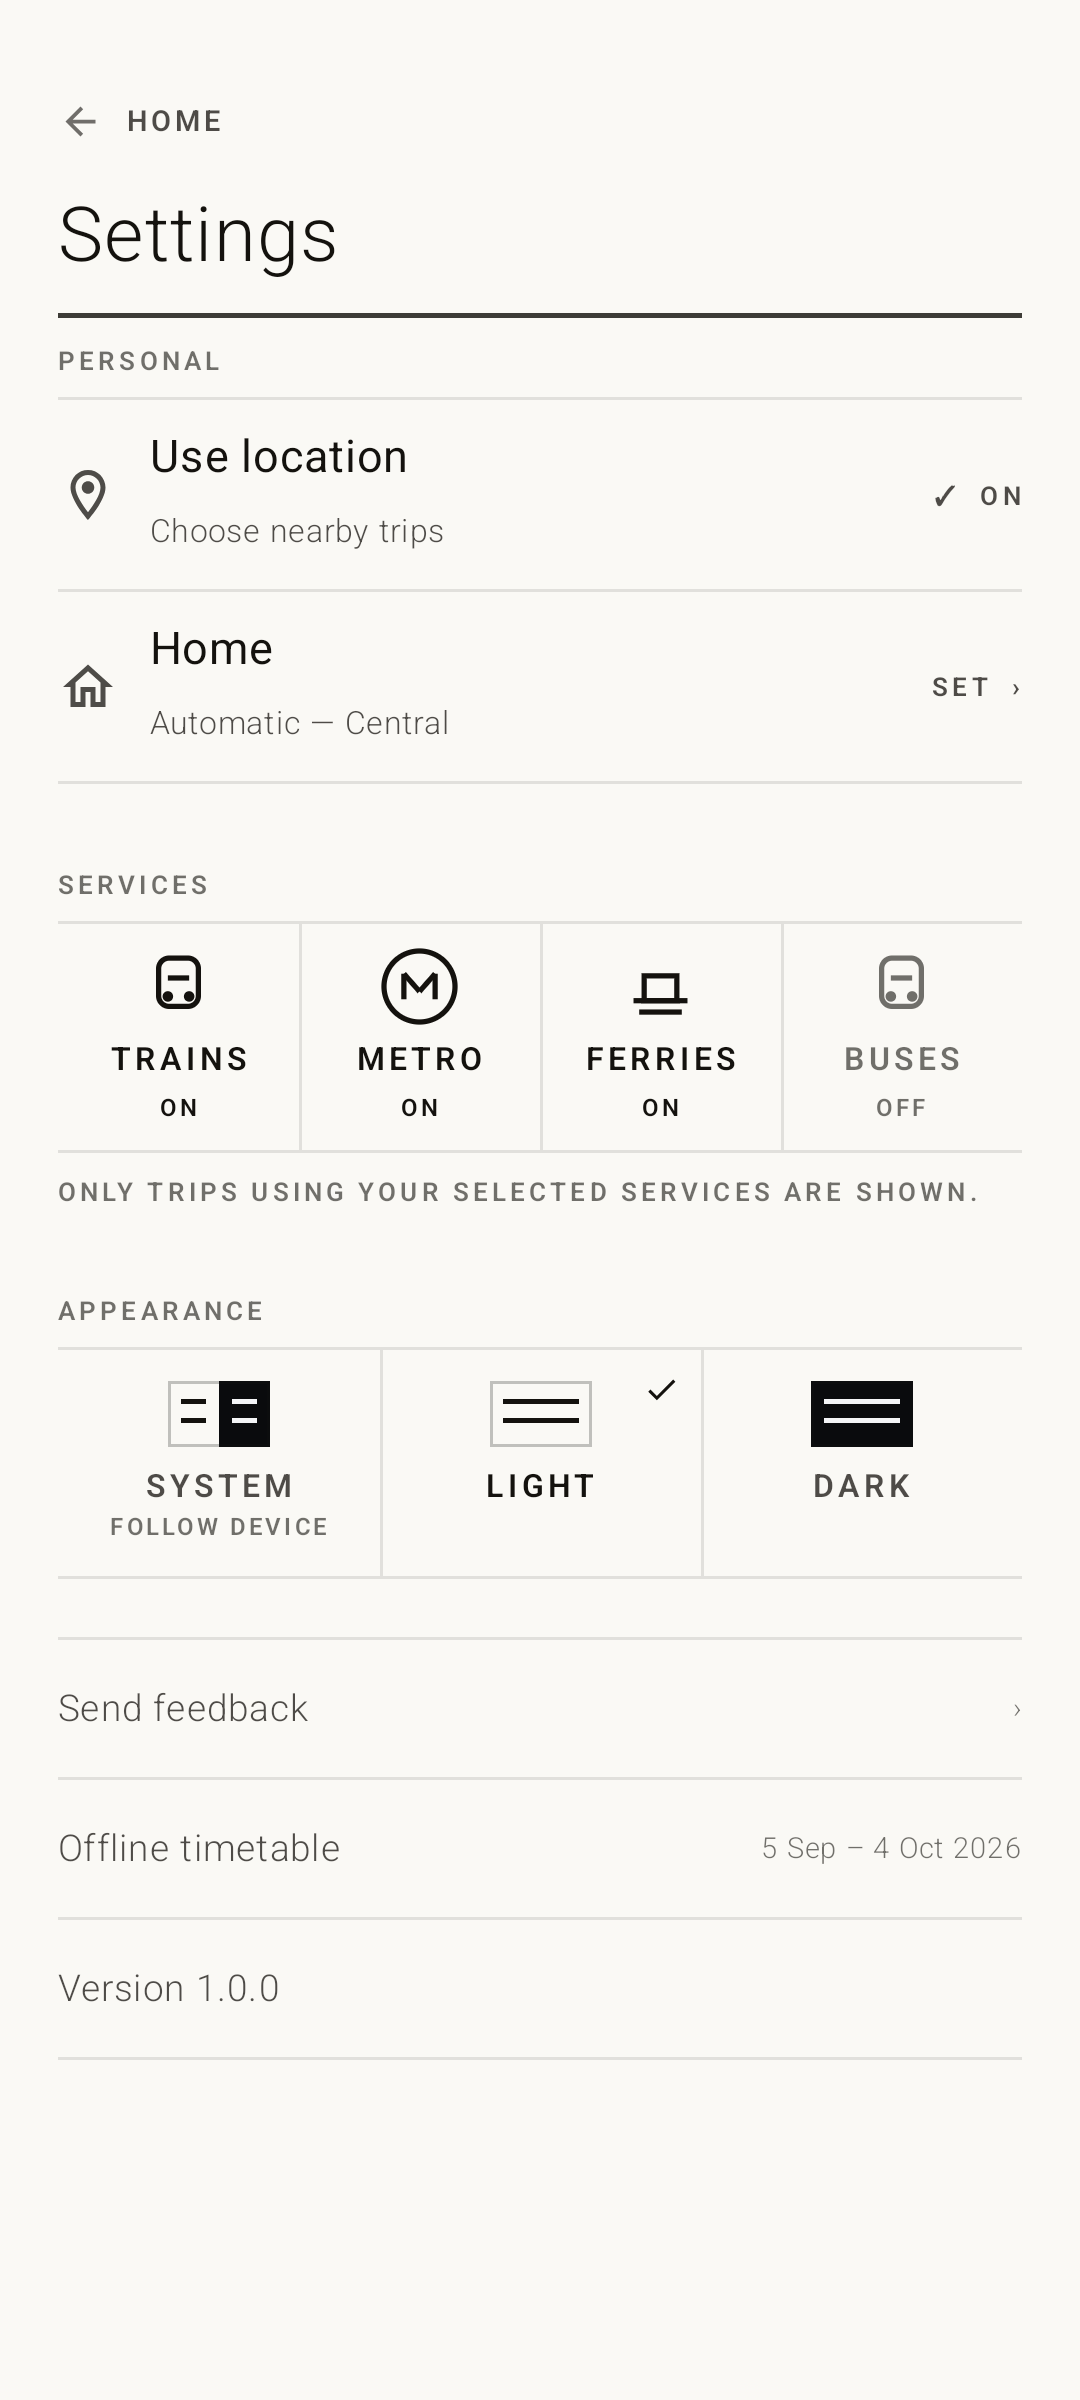
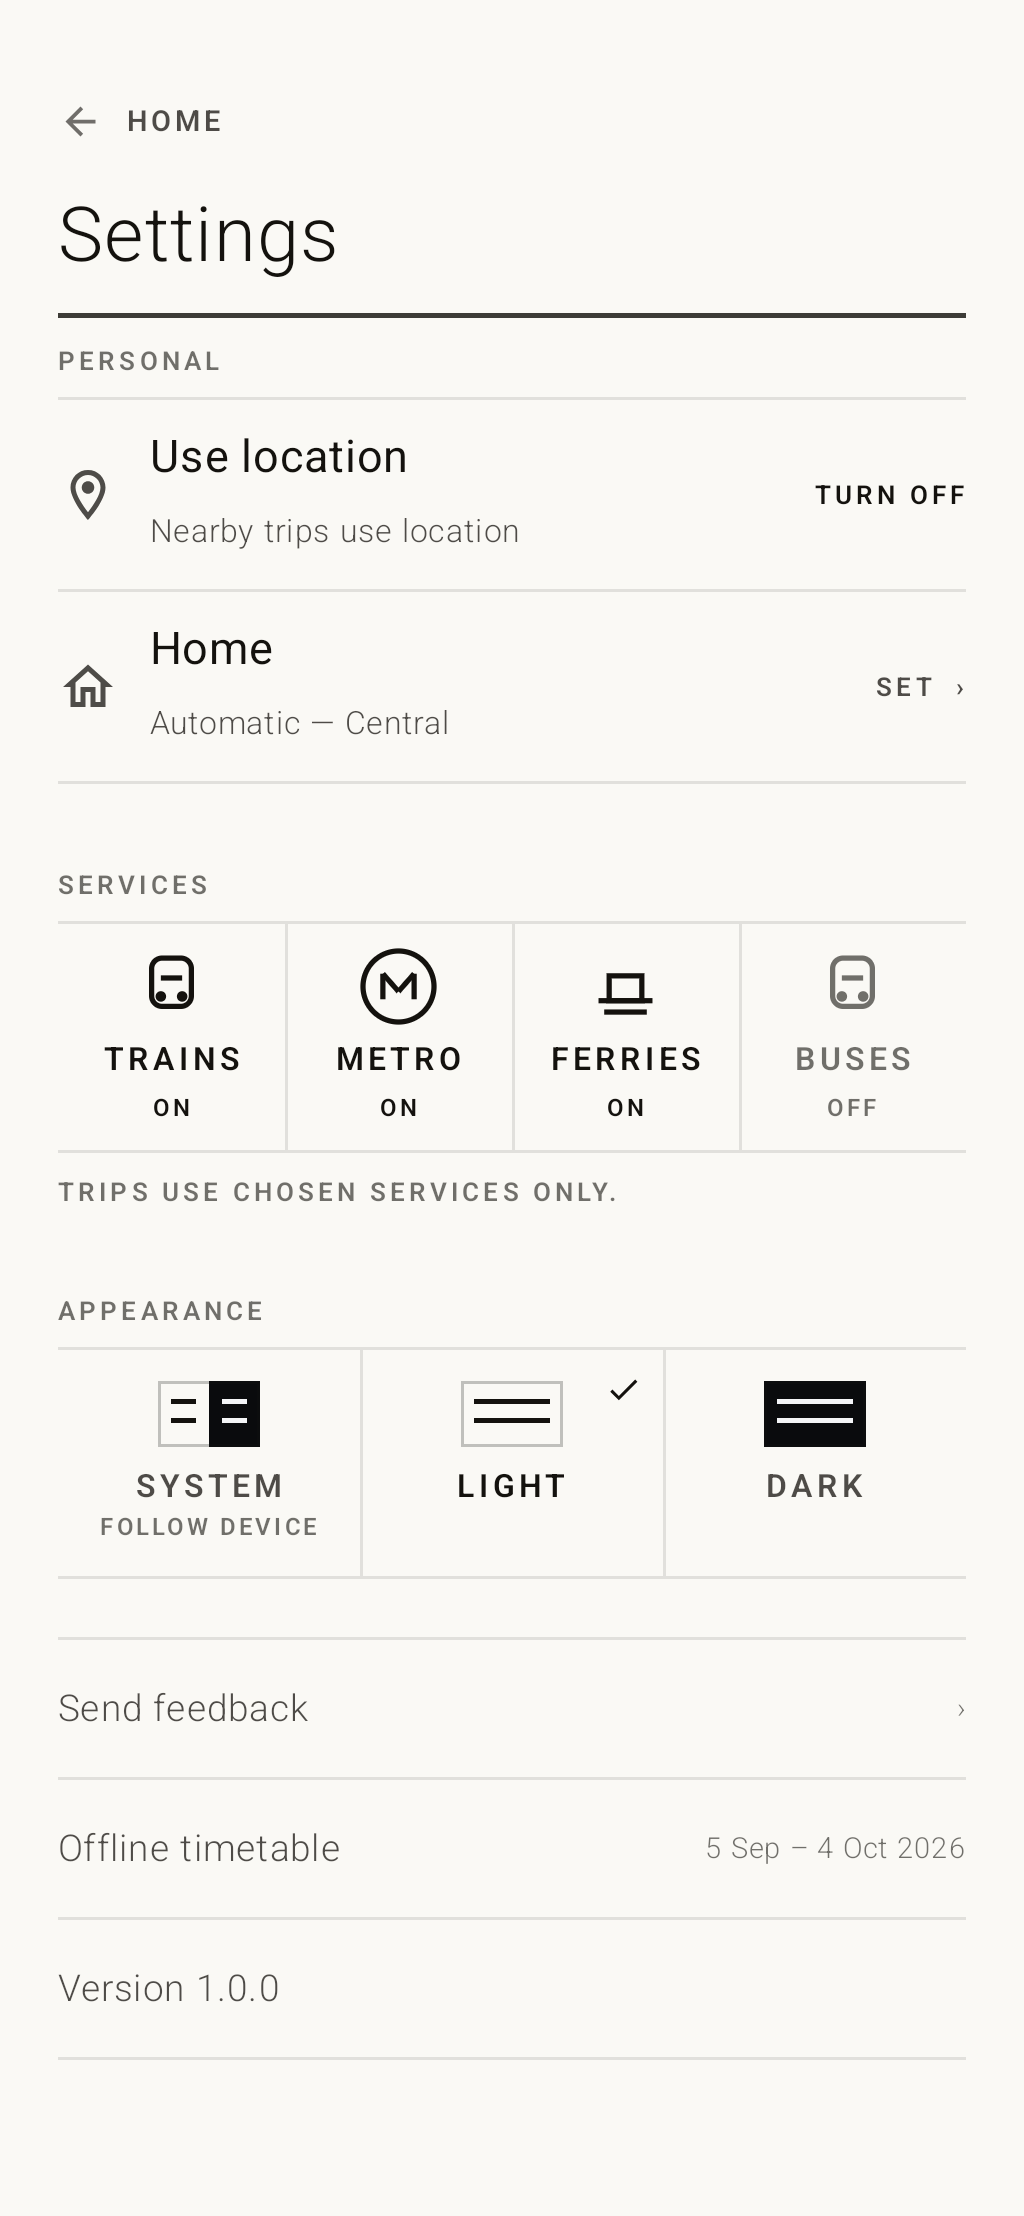
Calibrate permission-aware Settings across all three clients

diff --git a/docs/backlog/location-row/build_plan.md b/docs/backlog/location-row/build_plan.md
@@ -113,7 +113,7 @@ Runs on one tree with phases 1–3 landed. Owns `tools/baselines/`,
   is the only permitted difference beyond the fixture data.
 - Confirm `web/sw.js` `VERSION` bumped.
 
-Done marker: `[ ] phase 4 done`. Then the `backlog-item` close stage.
+Done marker: `[x] phase 4 done`. Then the `backlog-item` close stage.
 
 ## Build coordination (2026-09-07)
 
@@ -145,3 +145,21 @@ don't-ask-again action; the emulator exited during that tap, so its final
 screenshot was not captured. The initial broader connected suite failed two
 unchanged planner timing gates (next service 41.7s, cold route 8.1s); all UI
 calibration tests passed. A separate Sol cross-client review found no defects.
+
+Release packaging: signed Android 1.2.4 APK built and verified; 52 release
+unit tests and release lint passed. Full visual sweep captured all platforms;
+three non-Settings iOS differences and a missing existing filtered-Home web
+baseline are being checked before phase 4 acceptance.
+
+Visual attribution: detached pre-implementation d8f0a73 reproduced all three
+non-Settings iOS frames pixel-identically under the regression mask. Their
+stale baselines missed earlier journey-axis and saved-row changes. The clean
+attribution worktree was removed. The filtered-Home web output collision was
+fixed by making service-eligibility its sole writer; hidden-focus checks remain.
+
+Phase 4 verified: all 87 frames captured and the reviewed aggregate compares
+87 same, zero DIFF, zero NEW, zero missing. Current Settings exemplars and
+reviewed baselines are updated. Go tests, 335 web tests, Android debug/release
+builds with 52 JVM tests per configuration and lint, and iOS tests passed as
+recorded above. The broader Android planner timing failures remain outside
+this feature. All phases are complete; closeout and deployment follow.

diff --git a/docs/operations/android.md b/docs/operations/android.md
@@ -41,7 +41,7 @@ ask to allow installation from that browser. Alternatively, copy the APK
 to the phone or install over USB debugging:
 
 ```sh
-adb install -r android/releases/ilovetrains-1.2.3.apk
+adb install -r android/releases/ilovetrains-1.2.4.apk
 ```
 
 A debug APK has a different signing identity. Android cannot replace it with
